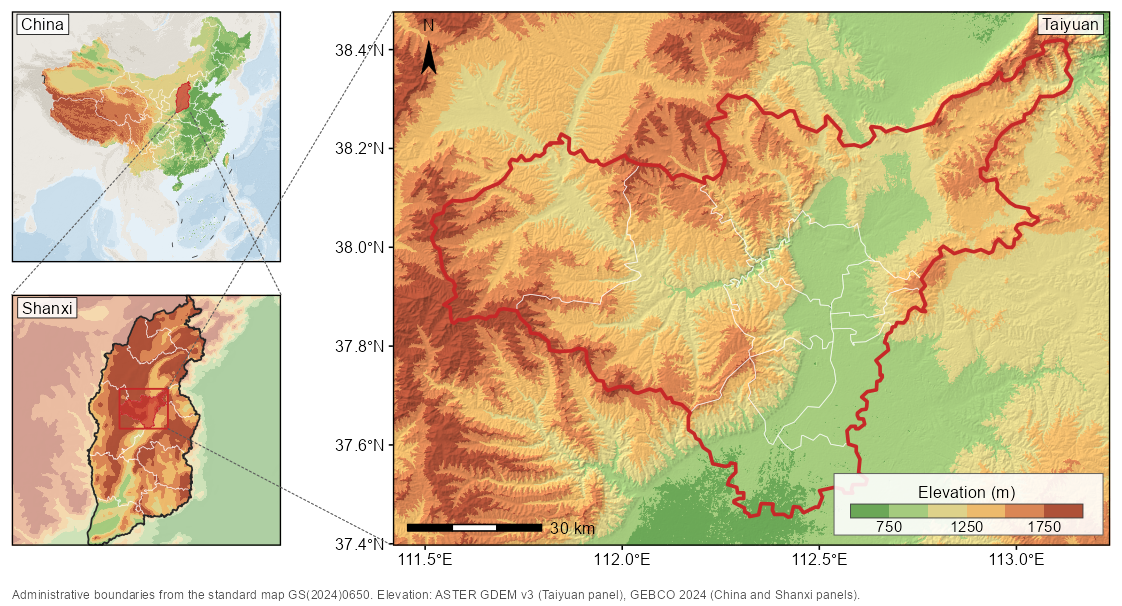
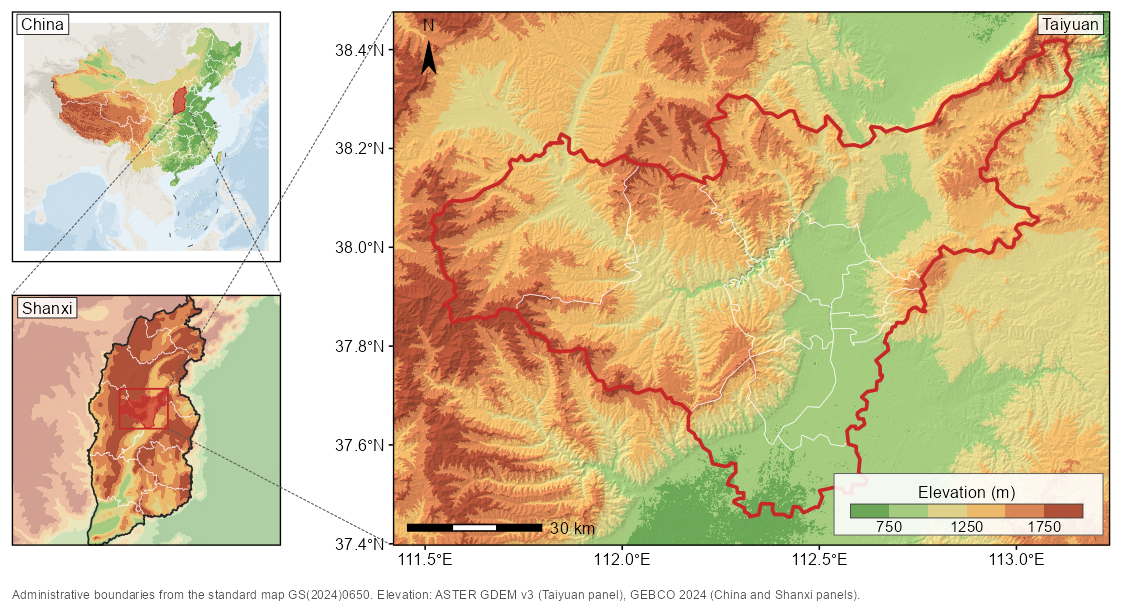
增加南海角框变体与配色工具
角框变体：三级示例开头新增 SCS_INSET 开关。TRUE 时主框只放陆域，南海走右下角
框，并相应去掉中国到山西那一段引线——角框与引线锥占同一块地方，这正是 SKILL.md
里那条碰撞规则的实物演示。新增 corner_inset() 与 inset_aspect()，角框窗口须先按
角框的物理长宽比撑到位，否则 coord_sf 在框内留信箱边、边缘对不齐。

配色：色带增至六条，新增 cvd（避开红绿轴）与 gray（黑白印刷，锚点按 L* 等距，
相邻类距离由 9.0 提到 11.7）。新增 preview_hypso() 用同一份 DEM 把全部色带各画
一遍，check_ramp() 报相邻类在正常视觉、两种色盲与灰度下的最小 Lab 距离，
simulate_cvd() 为 Vienot-Brettel-Mollon 二色视模拟。

实测结论写进 README 与 SKILL.md：彩色分层设色无一经得起黑白印刷（灰度 1.5-8.4），
cvd 是唯一在色盲下仍分离的彩色色带，级数超过 8 相邻类即难以分辨。

Changed region(s): [[0.0, 0.0, 0.2496, 0.4455], [0.0936, 0.3267, 0.1248, 0.3564]]

diff --git a/SKILL.md b/SKILL.md
@@ -149,9 +149,13 @@ rel  <- relief_rgb(dem, brk, cols, strength = 0.42)
 elev_legend(win, cols, elev_labels(brk))     # blanks alternate labels
 ```
 
-Four ramps, chosen by what the lowland *is*, not by taste: `terrain` (green lowland, general purpose), `arid` (pale sage to deep brown, for basins where green would falsely imply vegetation), `alpine` (top class reads as bare rock rather than "hottest"), `muted` (desaturated, an alternative to `relief_rgb(wash = )`).
+Six ramps, chosen by what the lowland *is*, not by taste: `terrain` (green lowland, general purpose), `arid` (for basins where green would falsely imply vegetation), `alpine` (top class reads as bare rock rather than "hottest"), `muted` (desaturated, an alternative to `relief_rgb(wash = )`), `cvd` (avoids the red/green axis), `gray` (black-and-white printing, anchors spaced evenly in L*). `cols` is a plain character vector throughout, so any other ramp works.
 
-Class count 5–8. Below 5 the relief structure collapses; above 8 adjacent bands stop being distinguishable at 8 pt legend size.
+**Show the candidates on the actual terrain before choosing.** `preview_hypso(dem)` renders one DEM under every ramp; a ramp that looks right as swatches often collapses on real relief.
+
+**Then measure separability.** `check_ramp(cols)` reports the smallest Lab distance between *adjacent* classes under normal vision, deuteranopia, protanopia and greyscale — adjacent classes are the pair a reader compares. Measured at six classes: `terrain` 17.1 normal but 4.7 under protanopia; `cvd` holds 19.0/14.5; every colour ramp falls to 1.5–8.4 in greyscale. Two rules follow. When the journal prints in black and white, switch to `gray` rather than tuning a colour ramp. When colour-vision safety matters, `cvd` is the only colour ramp here that survives.
+
+Class count 5–8. Below 5 the relief structure collapses; above 8 adjacent bands stop being distinguishable — `terrain` drops from 21.4 at five classes to 9.4 at ten, and to 0.5 under protanopia.
 
 The accent colour rule is enforceable, not just advisory. `assert_accent_unique()` compares in Lab space, because two reds that differ in hex still read as one colour in print:
 
@@ -272,10 +276,11 @@ Draw the segments as one `grid::segmentsGrob()` in mm over the composed gtable (
 
 **The collision rule.** A leader pair fans from the highlight box to two corners of the target panel, so it sweeps across the whole side of the source panel that faces the target. **Nothing else can occupy that side.** In particular a corner inset — the standard bottom-right South China Sea box — sits precisely where the cone passes when the next panel is below.
 
-Only two ways out, and the first is better:
+Three ways out:
 
-1. **Widen the main window so the inset is unnecessary.** Extend the window until the whole boundary layer falls inside the main frame. This removes an element and removes the conflict at the same time.
-2. Drop the leader lines. Legitimate — many journals' figures have none — but then the panels need some other cue tying them together (shared accent colour, matched frames).
+1. **Widen the main window so the inset is unnecessary.** Extend the window until every layer that must appear falls inside the main frame. This removes an element and the conflict at once, and is usually the best answer.
+2. **Keep the inset and drop the leader pair that would cross it.** A locator panel whose highlight is a filled accent-coloured patch already points at the next panel; the leaders are reinforcement, not the only cue. Use `corner_inset()`, and size the inset's window with `fit_aspect(bb, inset_aspect(win, x, y))` first — an inset whose window aspect does not match its box gets letterboxed by `coord_sf` and its edges stop aligning.
+3. Drop the leader lines entirely. Legitimate — many journals' figures have none — but then the panels need some other cue tying them together (shared accent colour, matched frames).
 
 Also clear the target side: put the main panel's latitude labels on the **right** (`scale_y_continuous(position = "right")`) when leaders arrive from the left, or they cross the tick labels.
 
